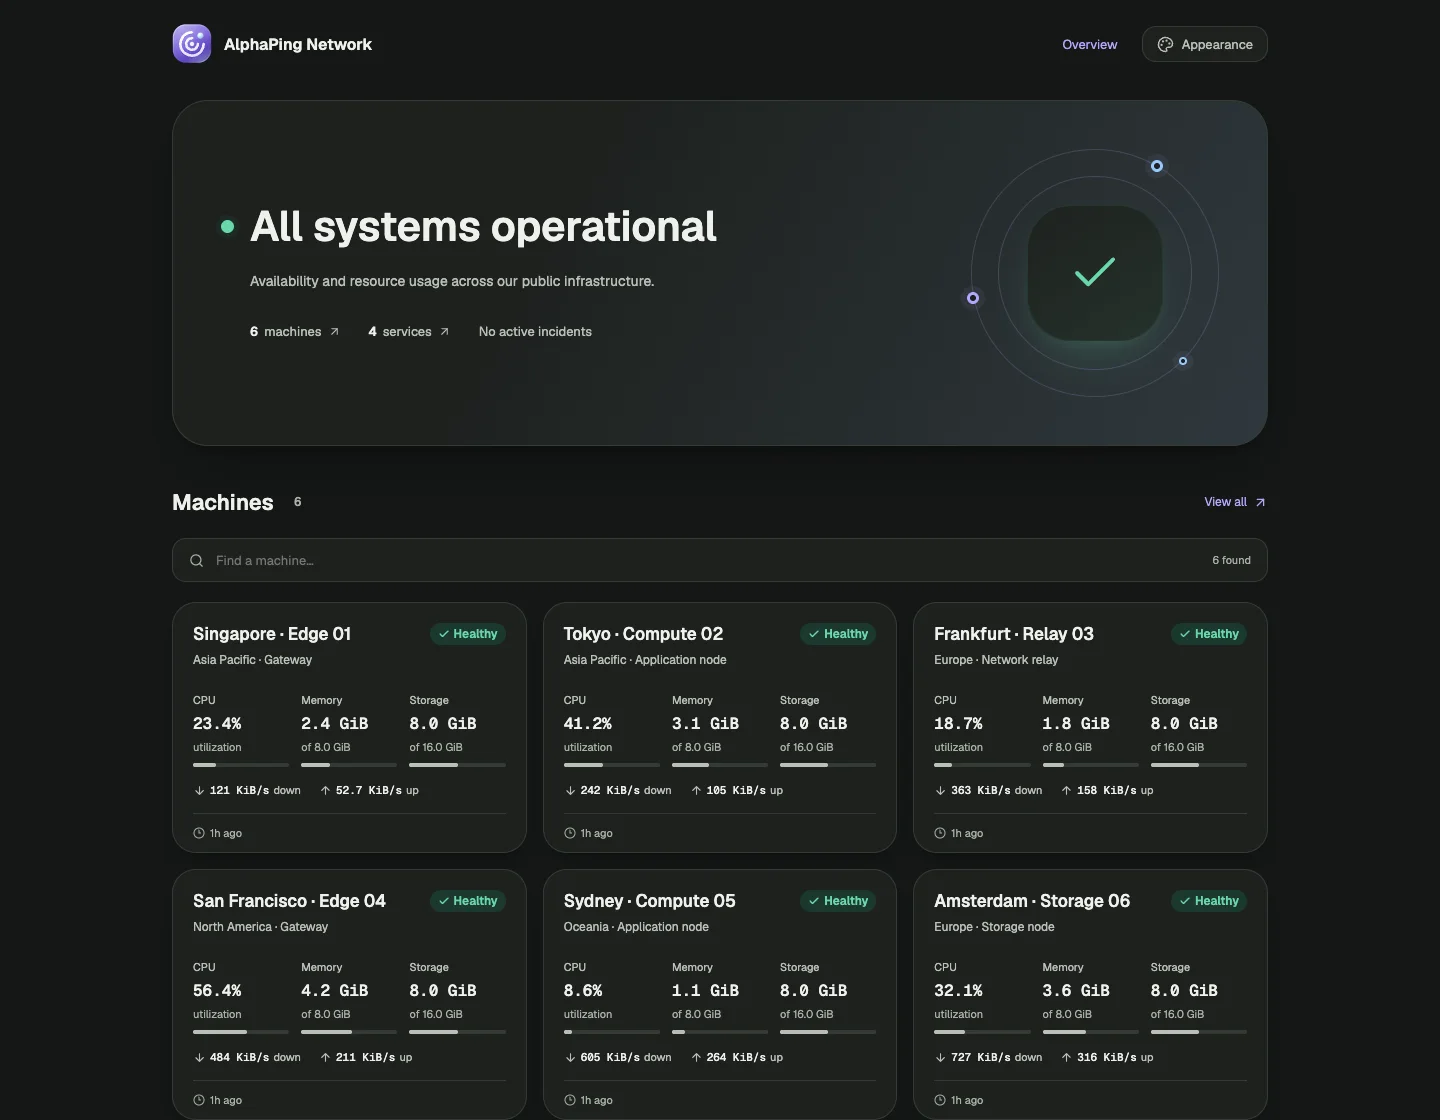
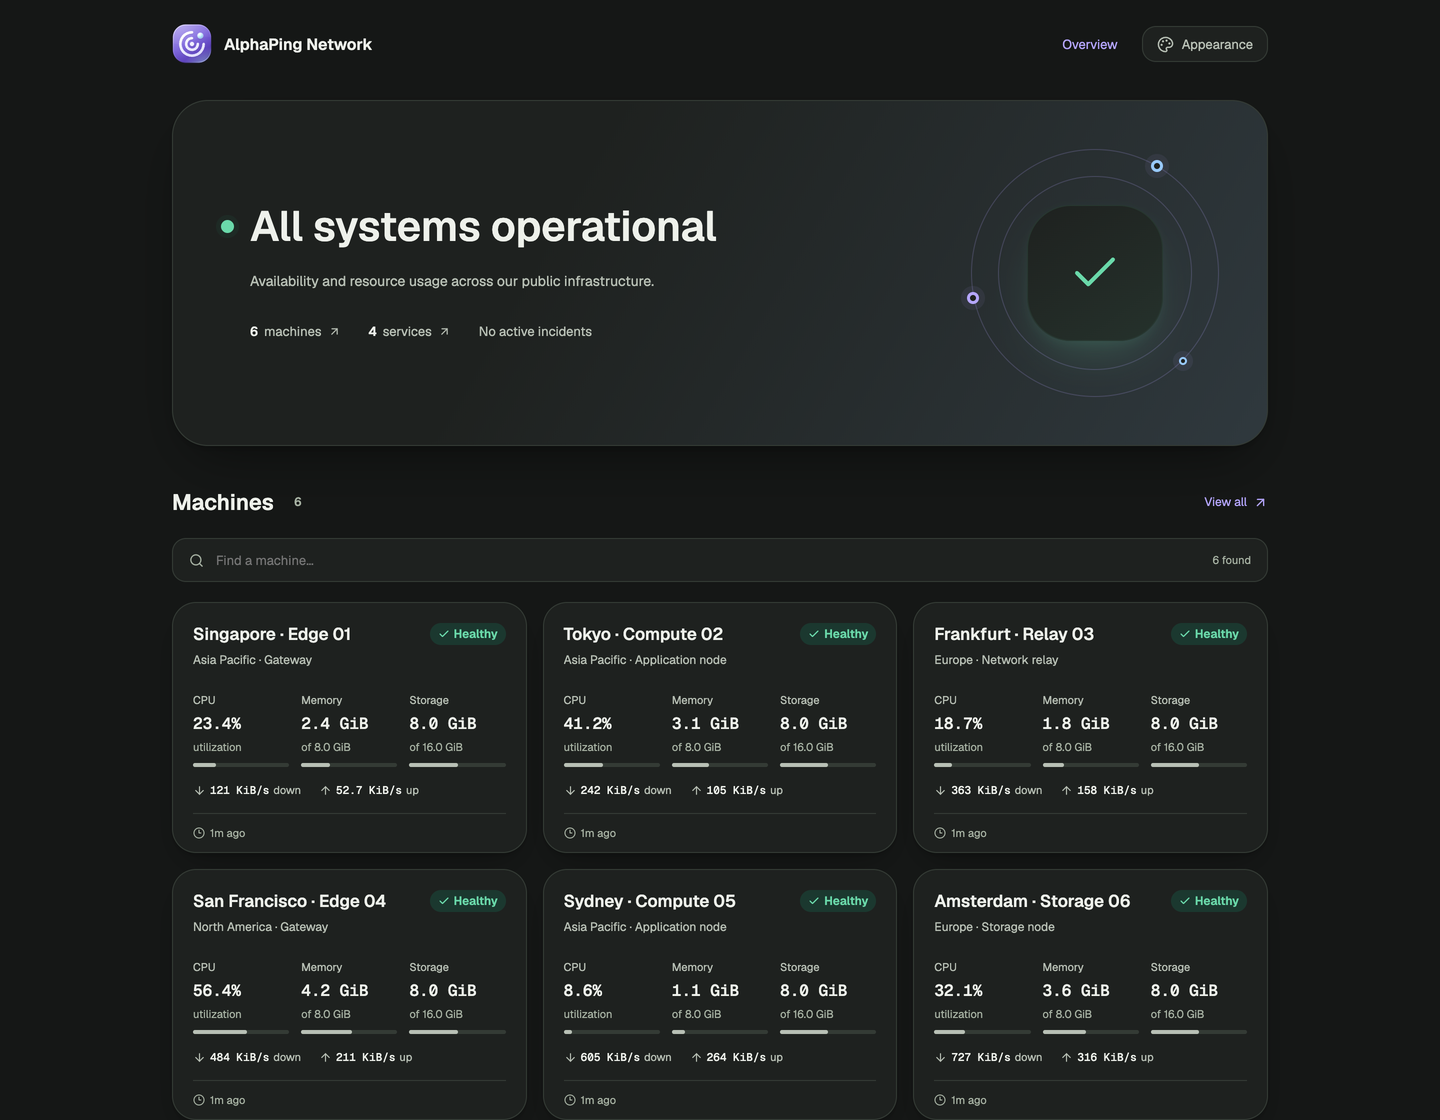
fix(docs): serve lossless retina product screenshots

diff --git a/apps/docs/src/lib/components/Landing.svelte b/apps/docs/src/lib/components/Landing.svelte
@@ -84,6 +84,8 @@
       <img
         class="ap-preview-light"
         src="/images/dashboard-light.webp"
+        srcset="/images/dashboard-light.webp 1440w, /images/dashboard-light@2x.webp 2880w"
+        sizes="(max-width: 560px) calc(100vw - 38px), (max-width: 800px) calc(100vw - 42px), (max-width: 1224px) calc(100vw - 66px), 1158px"
         alt={context.t("ap.preview.alt")}
         width="1440"
         height="1120"
@@ -92,6 +94,8 @@
       <img
         class="ap-preview-dark"
         src="/images/dashboard-dark.webp"
+        srcset="/images/dashboard-dark.webp 1440w, /images/dashboard-dark@2x.webp 2880w"
+        sizes="(max-width: 560px) calc(100vw - 38px), (max-width: 800px) calc(100vw - 42px), (max-width: 1224px) calc(100vw - 66px), 1158px"
         alt={context.t("ap.preview.alt")}
         width="1440"
         height="1120"

diff --git a/docs/reviews/2026-09-09-retina-screenshots.md b/docs/reviews/2026-09-09-retina-screenshots.md
@@ -1,0 +1,36 @@
+# 文档首页 Retina 截图
+
+原来的 1440 × 1120 有损 WebP 在桌面 Retina 屏幕上像素不足，细小文字也有压缩损失。现在从实际公开状态页组件和合成示例数据重新截图：浏览器视口为 1440 × 1120 CSS px，设备像素比为 2，原生输出 2880 × 2240 px。
+
+明暗两套图片均提供无损 WebP，通过 `srcset` 和与首页布局匹配的 `sizes` 选择分辨率。保留图片宽高属性、主题切换和示例数据标注。截图用的临时预览路由已经删除。
+
+| 资源                      | 像素尺寸    | 大小      |
+| ------------------------- | ----------- | --------- |
+| `dashboard-light.webp`    | 1440 × 1120 | 169,476 B |
+| `dashboard-light@2x.webp` | 2880 × 2240 | 347,988 B |
+| `dashboard-dark.webp`     | 1440 × 1120 | 198,682 B |
+| `dashboard-dark@2x.webp`  | 2880 × 2240 | 341,312 B |
+
+两个 2× WebP 解码后的像素均与浏览器原始 PNG 截图逐字节相同。1× 资源由原始 2× 截图缩小生成，没有放大旧图。
+
+本次只修改文档首页图片及加载配置，不涉及依赖、数据库、Agent、Worker 热路径或权限。
+
+## 浏览器验证
+
+构建后的中英文首页分别验证浅色和深色主题，共 16 组检查，浏览器报错为 0。
+
+| 视口宽度    | 设备像素比 | 图片显示宽度 | 实际加载像素宽度 |
+| ----------- | ---------- | ------------ | ---------------- |
+| 1440 CSS px | 1          | 1158 CSS px  | 1440 px          |
+| 1440 CSS px | 2          | 1158 CSS px  | 2880 px          |
+| 800 CSS px  | 2          | 758 CSS px   | 2880 px          |
+| 390 CSS px  | 3          | 352 CSS px   | 1440 px          |
+
+检查浏览器 `currentSrc` 和实际响应文件的解码尺寸，确认图片像素数足以覆盖显示宽度与设备像素比。主题切换保持相同图片高度，页面没有横向溢出；人工检查了明暗截图及 Retina 渲染结果。
+
+## 发布验证
+
+- 文档类型及严格内容检查、生产构建通过。
+- `pnpm verify` 的格式、lint、类型、测试、D1 迁移及 schema、成本模型、Rust、Agent 资源、构建、Web E2E、全部 Worker dry-run 和空白检查均通过。D1 schema 阶段曾因本机孤儿开发进程耗尽端口而中断；清理失效进程后单独重跑成功，并续跑了其余验证阶段。
+- 文档生产依赖审计没有已知漏洞；本次没有依赖或许可证变更。
+- 真实部署配置及部署回执保持忽略；只发布文档 Worker，无数据库迁移。线上验证与回滚版本记录在本地部署回执中。

diff --git a/apps/docs/README.md b/apps/docs/README.md
@@ -78,10 +78,14 @@ Turbo passes this variable to builds and includes it in the cache key, so changi
 the public origin cannot reuse pages generated for another hostname.
 
 The Logo and favicon are copies of the product's accepted brand assets. Update
-both apps when the canonical Logo changes. Preview images derive from the
-synthetic dashboards in `docs/images`, compressed to local WebP files; they are
-explicitly labeled as sample data and follow the chosen theme. Fonts are hosted
-locally. Runtime dependencies: svedocs (MIT), Geist fonts (SIL OFL-1.1) and Lucide
+both apps when the canonical Logo changes. Preview images are captured from the
+actual public status page components with synthetic sample data at a 1440 × 1120
+CSS viewport and device pixel ratio 2. Keep the native 2880 × 2240 captures and
+1440 × 1120 variants as lossless WebP files in `static/images`; do not upscale the
+older README images in `docs/images`. The landing page uses `srcset` and `sizes`
+to load the appropriate resolution for the viewport and screen density. Previews
+are explicitly labeled as sample data and follow the chosen theme. Fonts are
+hosted locally. Runtime dependencies: svedocs (MIT), Geist fonts (SIL OFL-1.1) and Lucide
 (ISC); see the repository's third-party notices.
 Production builds publish bundled dependency licenses at `/third-party-licenses.txt`
 and repository notices at `/third-party-notices.txt`.
